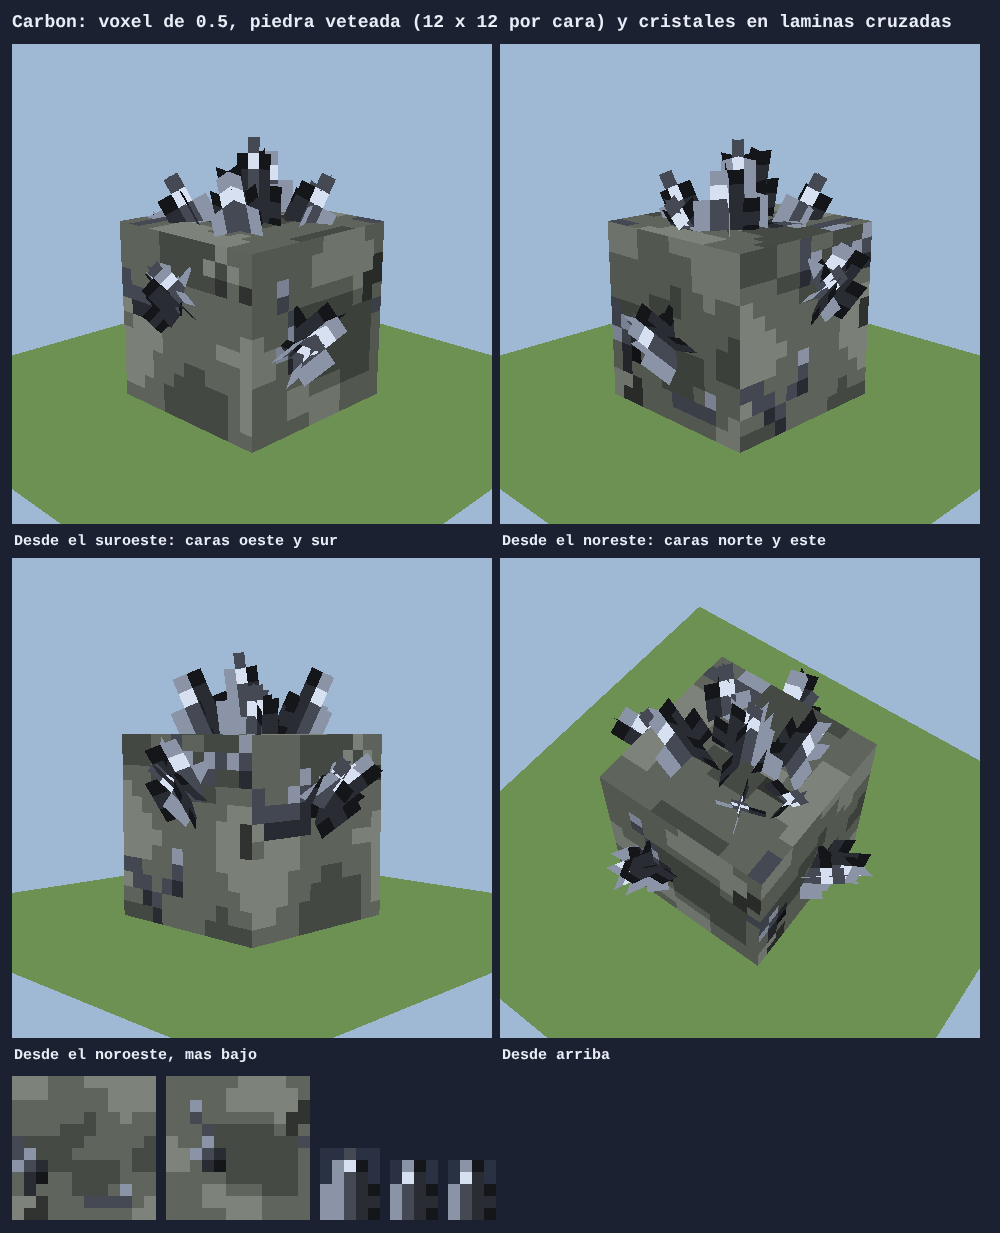
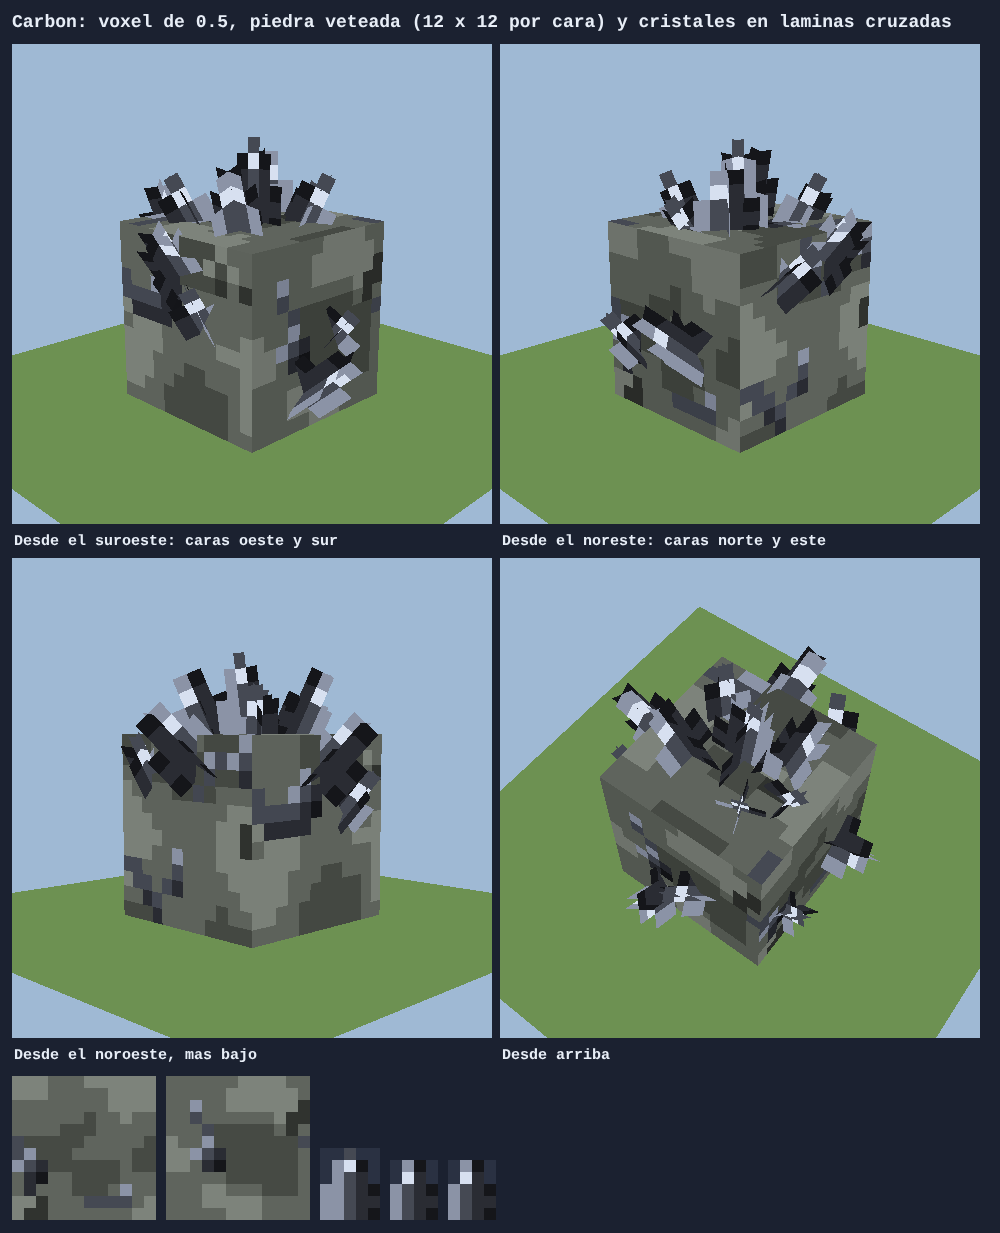
Boceto de minerales: en el voxel de 0,5, los cristales de los lados sueltos
Claude-Session: https://claude.ai/code/session_01XutUh4eVSdN6S6kRiv2aM4

diff --git a/docs/bocetos/minerales/index.html b/docs/bocetos/minerales/index.html
@@ -247,13 +247,21 @@ sides.forEach(([n, at], k) => {
     const u0 = small ? jitter(0.3) : (c === 0 ? -0.2 : 0.22) + jitter(0.15);
     const v0 = 0.25 + r() * 0.55;
     const count = small ? 2 : 2 + Math.floor(r() * 2);
+    // En el voxel, los dos de cada cara sueltos, no en racimo (el autor,
+    // 2026-10-20: «parecen uno solo»): mas cerca en unas caras, mas lejos en
+    // otras, y cada uno a su altura. Solo se sortea en el voxel: el bloque
+    // aprobado sigue igual.
+    const spread = small ? 0.22 + r() * 0.42 : 0;
+    const clamp = (v, lo, hi) => Math.max(lo, Math.min(hi, v));
     for (let i = 0; i < count; i++) {
       const lateral = new THREE.Vector3(n.z, 0, -n.x).multiplyScalar(jitter(0.8));
       const axis = n.clone().multiplyScalar(0.8).add(UP.clone().multiplyScalar(0.7 + r() * 0.5)).add(lateral);
       const big = i === 0;
       // En este orden los sorteos: la posicion antes que el tamano, como en el
       // bloque que aprobo el autor (cambiarlo cambia todo el dibujo).
-      const base = at(u0 + jitter(0.14), v0 + jitter(0.1));
+      const base = small
+        ? at(clamp(u0 + (i - 0.5) * spread + jitter(0.08), -0.38, 0.38), clamp(v0 + jitter(0.4), 0.2, 0.85))
+        : at(u0 + jitter(0.14), v0 + jitter(0.1));
       const [w, h] = small ? (big ? [4, 5] : [3, 4]) : big ? [8, 11] : [6, 7 + Math.floor(r() * 3)];
       addCrystal(base, axis, w, h, 200 + k * 10 + c * 4 + i, r() * Math.PI);
     }

diff --git a/docs/pendiente.md b/docs/pendiente.md
@@ -97,7 +97,10 @@ Pidio solo un ejemplo, sin tocar el juego, para el cobre y el carbon.
   pixel a pixel.
 - **El voxel de 0,5** (`?s=0.5`; `cobre-05.png`, `carbon-05.png`), que pidio
   despues: caras de 12 × 12 y cristales de **0,25 como mucho** (6 pixeles).
-  **Esperando al autor.**
+  El autor: los de los lados «están tan juntos que parecen uno solo»; ahora
+  los dos de cada cara van sueltos, separados de un quinto a dos tercios de la
+  cara segun la cara (*deduccion*), y cada uno a su altura. **Esperando al
+  autor.**
 - Lo que elegi yo (*por confirmar*): la piedra gris verdosa, los colores de
   cada mineral (y el cardenillo en las vetas del cobre), cuantos cristales y
   donde, su forma (prisma en punta con su cara de luz y su brillo).
